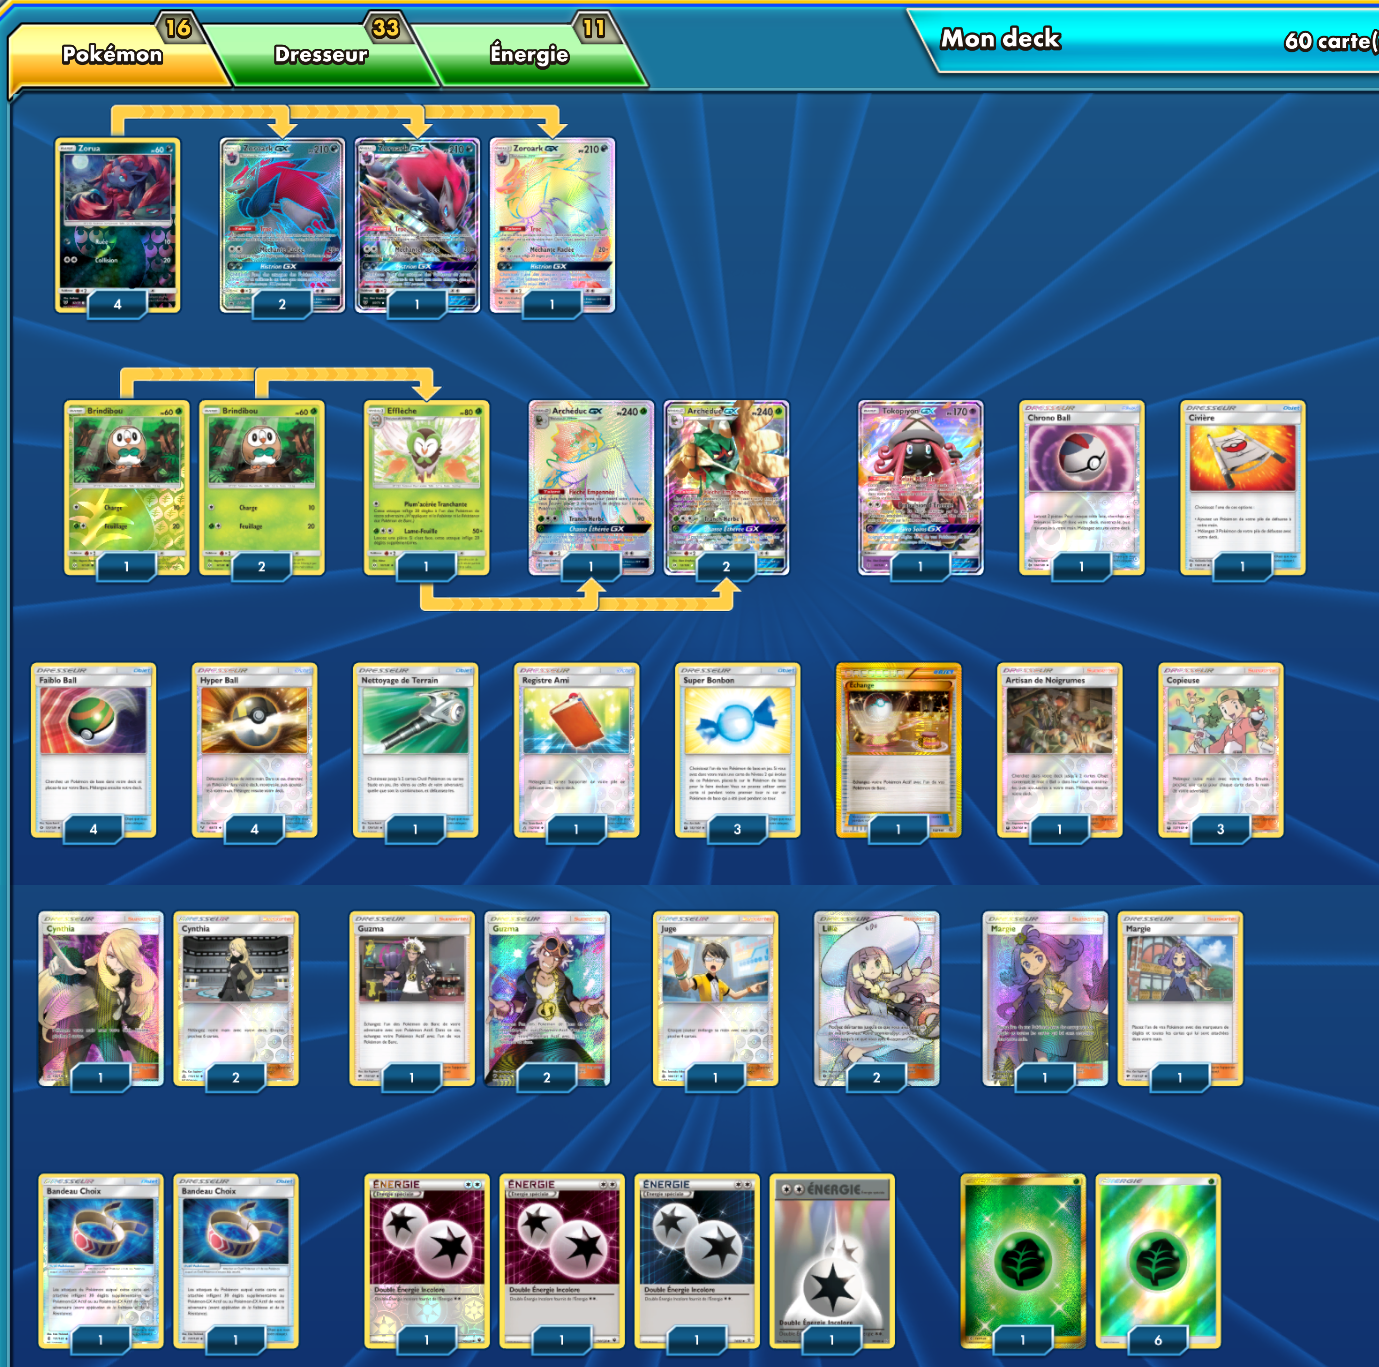
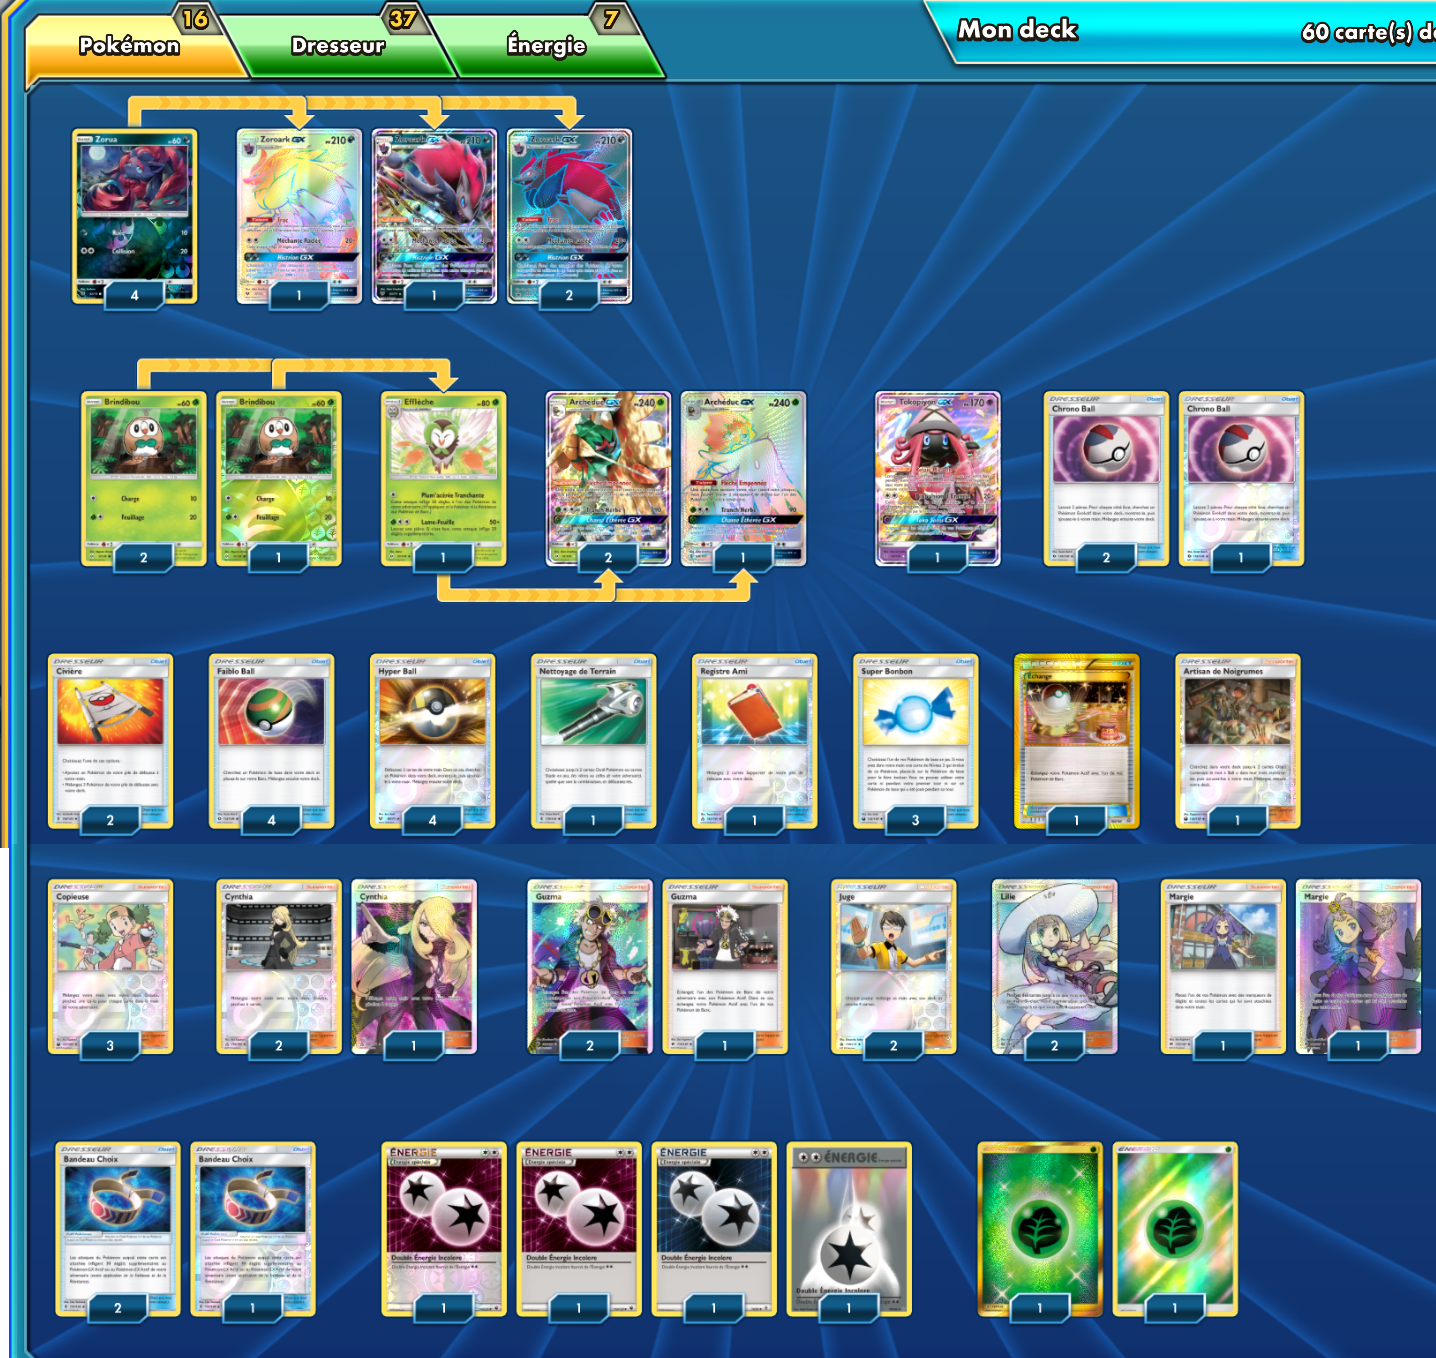
Modification de zoro arché

diff --git a/Deck-Liste/Standard/2019/ZoroarkArchéduc-GX.md b/Deck-Liste/Standard/2019/ZoroarkArchéduc-GX.md
@@ -1,6 +1,6 @@
 # Zoroark-GX - Archéduc-GX
 
-## Description : Peut-être enlever une énergie et mettre une chrono ball à la place. À vous d'en juger.
+## Description : Peut-être enlever un bandeau et mettre un nettoyage de terrain. À vous d'en juger.
 
 <br>
 
@@ -15,28 +15,28 @@
 * 3 Archéduc-GX SUM 12
 * 1 Tokopiyon-GX GRI 60
 
-##Cartes Dresseur - 33
+##Cartes Dresseur - 38
 
 * 2 Margie BUS 142
 * 1 Registre Ami UPR 132
 * 2 Lilie SUM 147
-* 1 Civière GRI 130
+* 2 Civière GRI 130
 * 1 Échange PRC 163
-* 1 Chrono Ball SUM 134
-* 2 Bandeau Choix GRI 121
+* 3 Chrono Ball SUM 134
+* 3 Bandeau Choix GRI 121
 * 3 Copieuse CES 127
 * 4 Faiblo Ball SUM 123
-* 1 Artisan de Noigrumes CES 124
 * 1 Nettoyage de Terrain GRI 125
 * 3 Guzma BUS 115
 * 3 Cynthia UPR 148
 * 4 Hyper Ball SLG 68
-* 1 Juge FLI 108
+* 1 Artisan de Noigrumes CES 124
+* 2 Juge FLI 108
 * 3 Super Bonbon CES 142
 
-##Énergie - 11
+##Énergie - 6
 
-* 7 Énergie Plante GRI 167
+* 2 Énergie Plante GRI 167
 * 4 Double Énergie Incolore FCO 114
 
 Nombre de cartes - 60
